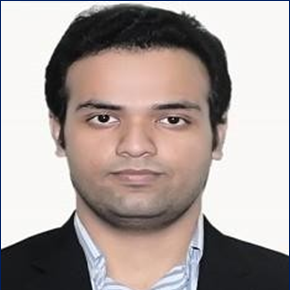
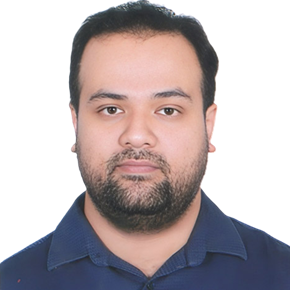
Refactor: profile image updated.

diff --git a/index.html b/index.html
@@ -175,8 +175,7 @@
                   >
                     <i class="fa fa-map-marker"></i>
                     <address>
-                      322, Moynarbag, Sochib Bari More, North Badda, Dhaka-1212,
-                      Bangladesh.
+                      Dhaka, Bangladesh.
                     </address>
                   </li>
                 </ul>
